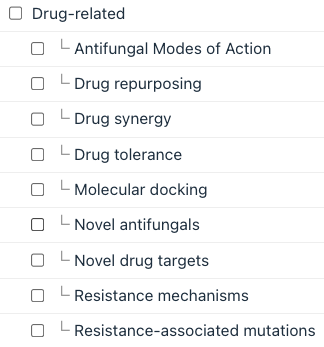
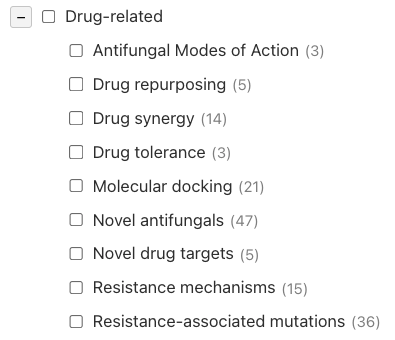
feat(newsletter): update Fall 2026 issue to the version sent out
Regenerate the Fall 2026 issue from the final Word file: links to the
spotlight paper on PubMed, SGD and CGD gene pages and the GRACE library,
and a larger Figure 3. Keep the two typo fixes from the first version.

Also say on the Library Collections page that the Cowen laboratory
distributes the DBC library, through the same Merck MTA as GRACE
(confirmed by the Cowen laboratory).

diff --git a/src/pages/newsletter/issues/Fall2026.jsx b/src/pages/newsletter/issues/Fall2026.jsx
@@ -1,7 +1,7 @@
 import React from 'react';
 import { Link } from 'react-router-dom';
 
-// CGD Newsletter, Fall 2026. Generated from "Fall 2026.docx" by
+// CGD Newsletter, Fall 2026. Generated from "Fall 2026 (2).docx" by
 // scripts/newsletter_docx_to_issue.py; edit freely after review.
 // Each article is a <section> whose id matches an entry in issues/index.js.
 const IMG = '/images/newsletter/fall-2026';
@@ -29,7 +29,7 @@ function Fall2026() {
         <h2>Expanded Set of Drug-Related Literature Topic Tags</h2>
         <p>Given the ongoing preponderance of papers addressing drugs and drug resistance, we felt it was time to assign more fine-grained Literature Topic tags to this set of papers, with the goal of making these papers more findable within CGD. The following set of topics are now being assigned where relevant either to genes in a study or to a study as a whole.</p>
         <figure className="newsletter-figure">
-          <img src={`${IMG}/figure-3.png`} alt="Figure 3" style={{ maxWidth: '206px' }} />
+          <img src={`${IMG}/figure-3.png`} alt="Figure 3" style={{ maxWidth: '369px' }} />
           <figcaption>Figure 3</figcaption>
         </figure>
         <p>Papers addressing these topics can be located most easily by means of the <Link to="/literature-topic-search">Literature Topic Search</Link> tool.</p>
@@ -53,9 +53,9 @@ function Fall2026() {
 
       <section className="newsletter-article newsletter-spotlight" id="research-spotlight">
         <p className="newsletter-kicker">Research Spotlight</p>
-        <h2>Hac1-independent functions of Ire1 drive morphogenesis in <em>Candida albicans</em> through distinct transcriptional programs</h2>
-        <p>The canonical example of ER stress-induced alternative splicing of <em>HAC1</em> mRNA via Ire1p has been well characterized in <em>Saccharomyces cerevisiae</em> (Cox and Walter, 1996; Mori et al., 1996). For this species, the presence of unfolded proteins in the cytoplasm triggers splicing of an intron from the <em>HAC1</em> mRNA that results in a functional transcription factor that enters the nucleus to activate the stress response.</p>
-        <p>In contrast, it appears that most of the pathogenic yeasts, as well as <em>S. pombe</em>, have evolved different means to respond to ER stress, with varying reliance on Ire1 and Hac1. The near-relative to <em>S. cerevisiae, C. glabrata</em> (<em>Nakaseomyces glabratus</em>), does possess an <em>HAC1</em> ortholog, however alternative splicing does not appear to factor in the stress response. Where evidence had suggested that <em>C. albicans</em> might employ a more canonical version that does employ alternative splicing, a recent study by <a href="https://pubmed.ncbi.nlm.nih.gov/42305016/" target="_blank" rel="noopener noreferrer">Stack-Couture et al.</a> in the Journal of Cell Science, looked more closely into this species.</p>
+        <h2><a href="https://pubmed.ncbi.nlm.nih.gov/42305016/" target="_blank" rel="noopener noreferrer">Hac1-independent functions of Ire1 drive morphogenesis in <em>Candida albicans</em> through distinct transcriptional programs</a></h2>
+        <p>The canonical example of ER stress-induced alternative splicing of <a href="https://www.yeastgenome.org/locus/S000001863" target="_blank" rel="noopener noreferrer"><em>HAC1</em></a> mRNA via <a href="https://www.yeastgenome.org/locus/S000001121" target="_blank" rel="noopener noreferrer">Ire1p</a> has been well characterized in <em>Saccharomyces cerevisiae</em> (Cox and Walter, 1996; Mori et al., 1996). For this species, the presence of unfolded proteins in the cytoplasm triggers splicing of an intron from the <em>HAC1</em> mRNA that results in a functional transcription factor that enters the nucleus to activate the stress response.</p>
+        <p>In contrast, it appears that most of the pathogenic yeasts, as well as <em>S. pombe</em>, have evolved different means to respond to ER stress, with varying reliance on Ire1 and Hac1. The near-relative to <em>S. cerevisiae, C. glabrata</em> (<em>Nakaseomyces glabratus</em>), does possess an <Link to="/locus/CAGL0K12540g"><em>HAC1</em></Link> ortholog, however alternative splicing does not appear to factor in the stress response. Where evidence had suggested that <em>C. albicans</em> might employ a more canonical version that does employ alternative splicing, a recent study by <a href="https://pubmed.ncbi.nlm.nih.gov/42305016/" target="_blank" rel="noopener noreferrer">Stack-Couture et al.</a> in the Journal of Cell Science, looked more closely into this species.</p>
         <p>In <em>C. albicans</em>, <Link to="/locus/IRE1">Ire1</Link> and <Link to="/locus/HAC1">Hac1</Link> have partially overlapping roles in several processes beyond the unfolded protein response (UPR, due to ER stress), including filamentation, which is required for virulence. The goal of the study was to tease out these roles, especially with respect to activation of transcription for genes involved in the stress response separate from genes involved in morphogenesis.</p>
         <p>As the <em>C. albicans</em> protein can functionally complement loss of <em>S. cerevisiae IRE1</em>, it is evident that splicing by Ire1 is retained in <em>C. albicans</em>. Further, however, <em>C. albicans</em> Ire1 is required for morphogenesis, as an <em>ire1</em> mutant grown on serum will not filament. Both the kinase and nuclease activities of the protein are necessary for filamentation, as either a kinase-dead or nuclease-dead mutant will likewise fail to filament.</p>
         <p>As a first step to understanding how Ire1 mediates both stress response and filamentation, the research group looked in detail at transcriptomics for the mutant versus wild type under ER stress (tunicamycin treatment) compared to filament induction (serum at 37 deg).</p>
@@ -63,7 +63,7 @@ function Fall2026() {
           <img src={`${IMG}/figure-5.png`} alt="Figure 5" style={{ maxWidth: '274px' }} />
           <figcaption>Figure 5</figcaption>
         </figure>
-        <p>As shown in the figure, the genes showing different regulation under the two conditions fall into highly distinct clusters. To separate those genes affected by Ire1 from those affected by a blanket response to conditions, the researchers employed the GRACE mutant library to identify those genes showing a growth defect specific to the ER stress response (i.e., tunicamycin) but not by mutation alone. Next, they looked at what is known of regulation of the genes identified as being dependent on Ire1 under filamentation-inducing conditions. <a href="https://yeastract-plus.org/pathoyeastract/" target="_blank" rel="noopener noreferrer">PathoYeastract</a> was instrumental in assembling a set of 49 transcription factors with significant roles in regulation of morphogenesis. Interestingly, Hac1 was not within this set, which the researchers speculate might be due to lack of characterization rather than lack of significance.</p>
+        <p>As shown in the figure, the genes showing different regulation under the two conditions fall into highly distinct clusters. To separate those genes affected by Ire1 from those affected by a blanket response to conditions, the researchers employed the <Link to="/community-news">GRACE mutant library</Link> to identify those genes showing a growth defect specific to the ER stress response (i.e., tunicamycin) but not by mutation alone. Next, they looked at what is known of regulation of the genes identified as being dependent on Ire1 under filamentation-inducing conditions. <a href="https://yeastract-plus.org/pathoyeastract/" target="_blank" rel="noopener noreferrer">PathoYeastract</a> was instrumental in assembling a set of 49 transcription factors with significant roles in regulation of morphogenesis. Interestingly, Hac1 was not within this set, which the researchers speculate might be due to lack of characterization rather than lack of significance.</p>
         <p>To address the question of whether <em>HAC1</em> acts in morphogenesis, they looked at (1) whether it was required for filamentation and (2) whether it was spliced upon induction of filamentation. Observation of filamentation in a <em>hac1</em> mutant shows decreased and abnormal filamentation, but not the total absence seen in an <em>ire1</em> mutant, indicating that whereas Ire1 is required, Hac1 plays a comparatively minor role.</p>
         <figure className="newsletter-figure">
           <img src={`${IMG}/figure-6.png`} alt="Figure 6" style={{ maxWidth: '453px' }} />
@@ -74,7 +74,7 @@ function Fall2026() {
           <img src={`${IMG}/figure-7.png`} alt="Figure 7" style={{ maxWidth: '240px' }} />
           <figcaption>Figure 7</figcaption>
         </figure>
-        <p>To identify these factors specific to Ire1-mediated responses independent of <em>HAC1</em> splicing, the group looked at transcriptomic data to see that <em>ERG5</em> and <em>YWP1</em> appear to be regulated by Ire1 in response to tunicamycin, while <em>PGA31</em> is a major player in response to serum.</p>
+        <p>To identify these factors specific to Ire1-mediated responses independent of <em>HAC1</em> splicing, the group looked at transcriptomic data to see that <Link to="/locus/C7_02840C_A"><em>ERG5</em></Link> and <Link to="/locus/C2_08590W_A"><em>YWP1</em></Link> appear to be regulated by Ire1 in response to tunicamycin, while <Link to="/locus/C4_04080C_A"><em>PGA31</em></Link> is a major player in response to serum.</p>
         <figure className="newsletter-figure">
           <img src={`${IMG}/figure-8.png`} alt="Figure 8" style={{ maxWidth: '491px' }} />
           <figcaption>Figure 8</figcaption>

diff --git a/src/pages/yeast-comparison/LibraryCollectionsPage.jsx b/src/pages/yeast-comparison/LibraryCollectionsPage.jsx
@@ -121,12 +121,13 @@ function LibraryCollectionsPage() {
             }
             obtain={
               <>
-                As with the GRACE library, use requires an MTA with Merck Sharp &amp; Dohme LLC:
-                contact Lorraine Hernandez (<Email address="lorraine_hernandez@merck.com" />) with
-                full contact information for the requesting PI and the institutional office that
-                handles MTAs, and a brief statement of the proposed use. Merck then arranges
-                distribution. Earlier distribution through the National Research Council of Canada
-                is described on the <Link to="/community-news">Community News</Link> page.
+                Distributed by the Leah Cowen laboratory, University of Toronto. As with the GRACE
+                library, use requires an MTA with Merck Sharp &amp; Dohme LLC: contact Lorraine
+                Hernandez (<Email address="lorraine_hernandez@merck.com" />) with full contact
+                information for the requesting PI and the institutional office that handles MTAs,
+                and a brief statement of the proposed use; a Merck representative then contacts
+                the Cowen laboratory to arrange distribution. See the{' '}
+                <Link to="/community-news">Community News</Link> page for the library description.
               </>
             }
           />
